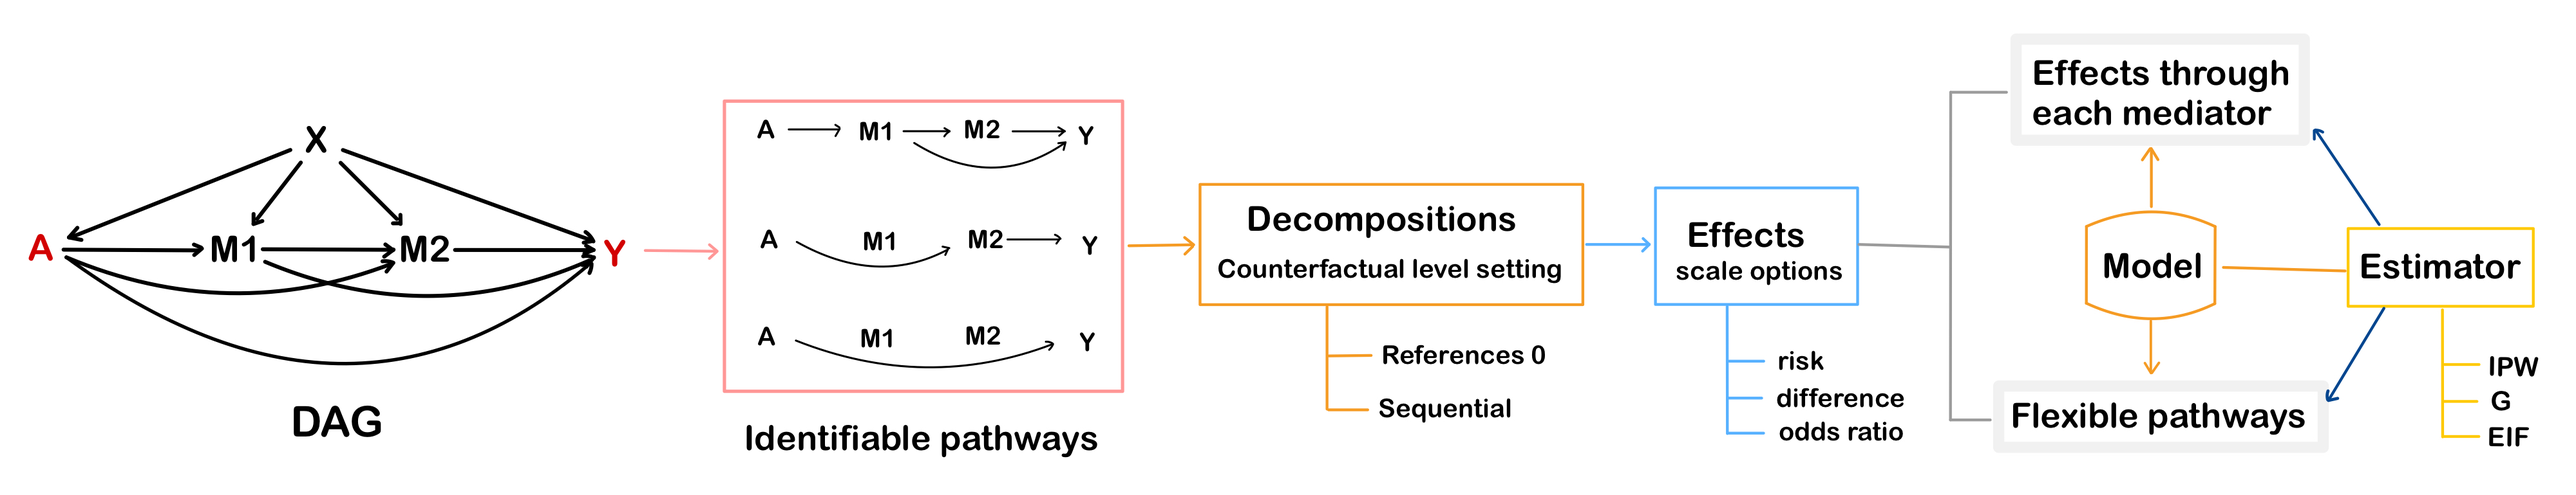
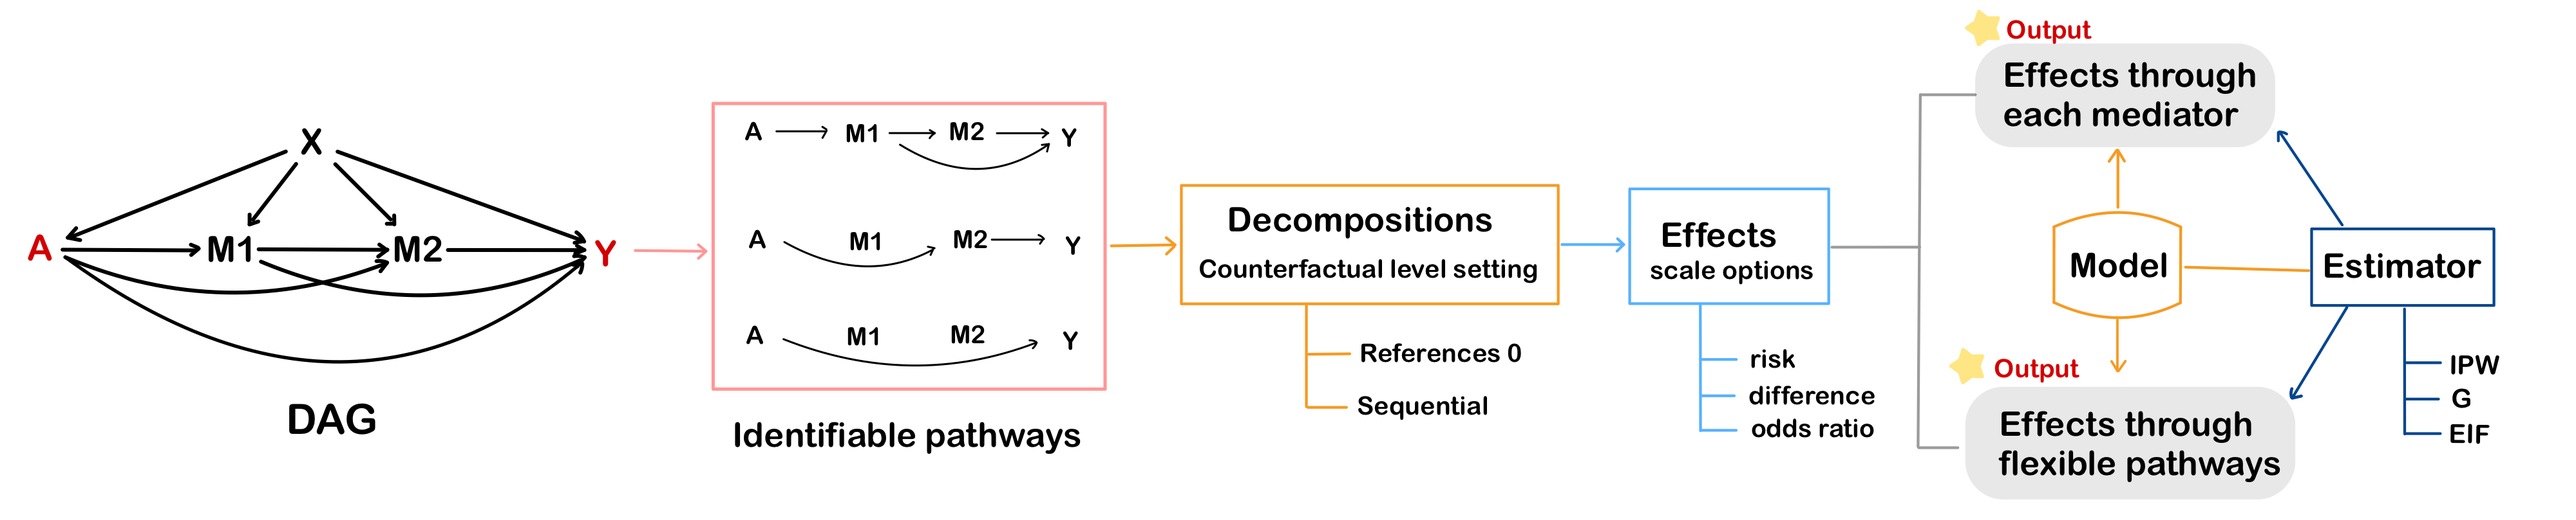
revise readme

diff --git a/README.md b/README.md
@@ -2,7 +2,7 @@ flexPaths: A R Package for Causal Path-Specific Effect Estimation with
 Flexible Settings
 ================
 Xiaxian Ou
-2024-10-08
+2024-11-15
 
 - [0. Installation:](#0-installation)
 - [1. Quick example: Single
@@ -26,7 +26,10 @@ This package is built for estimating the causal **path-specific
 effects** (PSEs) in mediation analysis with
 <span style="color:red">multiple ordered mediators for one binary
 treatment or multiple binary treatments</span>. It provides robust
-estimators based on influence function theory.
+estimators based on influence function theory. This is a schematic
+illustration of the flexPaths workflow:
+
+<img src="pic/flow.jpeg" width="1000" />
 
 Primary advantages of the package include:
 
@@ -58,9 +61,8 @@ Quick instructions are provided below. For more details, see the html.
 
 ``` r
 install.packages("devtools")
-library(devtools)
 
-install_github("xxou/flexPaths")
+devtools::install_github("xxou/flexPaths")
 library(flexPaths)
 ```
 
@@ -149,7 +151,7 @@ EIF_fit <- pathsInfo(data = singTreat, A = "treat", Y = "outcome1", cov_x = c("X
                     M.list = list(M1 = "med1", M2 = c('med2_1', 'med2_2')),
                     estimation = "EIF",
                     model.outcome = ~ SuperLearner(SL.library = c('SL.glm','SL.mean'),family = gaussian()),
-                    model.propensity = list(cov_x = ~ bart(verbose = FALSE, ndpost = 200),
+                    model.treatment = list(cov_x = ~ bart(verbose = FALSE, ndpost = 200),
                                             M1 = ~ glm(family = binomial()),
                                             M2 = ~ SuperLearner(SL.library = c('SL.gam','SL.glm'),family = binomial()))
 )
@@ -178,10 +180,10 @@ results_refer0
 ## Causal Paths Estimates: 
 ## 
 ##                      Path     Effect         SE   CI.lower  CI.upper P.value
-## 1           A->M1->...->Y 0.17059919 0.03320447 0.10551963 0.2356788   0e+00
-## 2           A->M2->...->Y 0.07958858 0.02383352 0.03287573 0.1263014   8e-04
-## 3                    A->Y 0.49851146 0.06616867 0.36882324 0.6281997   0e+00
-## 4 total effect: A->...->Y 0.73216237 0.06856749 0.59777256 0.8665522   0e+00
+## 1           A->M1->...->Y 0.17099386 0.03306295 0.10619166 0.2357961   0e+00
+## 2           A->M2->...->Y 0.08138394 0.02393085 0.03448035 0.1282875   7e-04
+## 3                    A->Y 0.49694286 0.06593332 0.36771592 0.6261698   0e+00
+## 4 total effect: A->...->Y 0.73440229 0.06862682 0.59989620 0.8689084   0e+00
 ```
 
 ``` r
@@ -196,10 +198,10 @@ results_seq
 ## Causal Paths Estimates: 
 ## 
 ##                      Path     Effect         SE   CI.lower  CI.upper P.value
-## 1           A->M1->...->Y 0.15573821 0.03233753 0.09235782 0.2191186   0e+00
-## 2           A->M2->...->Y 0.08354994 0.02165028 0.04111617 0.1259837   1e-04
-## 3                    A->Y 0.49605603 0.06662290 0.36547755 0.6266345   0e+00
-## 4 total effect: A->...->Y 0.73534418 0.06847876 0.60112828 0.8695601   0e+00
+## 1           A->M1->...->Y 0.15997138 0.03228410 0.09669571 0.2232471   0e+00
+## 2           A->M2->...->Y 0.08314747 0.02145742 0.04109169 0.1252032   1e-04
+## 3                    A->Y 0.49526891 0.06585991 0.36618585 0.6243520   0e+00
+## 4 total effect: A->...->Y 0.73838775 0.06827504 0.60457113 0.8722044   0e+00
 ```
 
 ## 1.2 `flexEffect`: PSE for flexible pathway(s)
@@ -239,7 +241,7 @@ flex_results
 ## boot strap results: 
 ## 
 ##       active    Effect    boot.SE boot.CI.lower boot.CI.upper nboot
-## 1 101 vs 000 0.6626455 0.07391435     0.5178311     0.7923982    50
+## 1 101 vs 000 0.6612755 0.07064497     0.5478025     0.7769868    50
 ##   boot.P.value
 ## 1            0
 ```
@@ -276,11 +278,11 @@ flex_results1
 ## boot strap results: 
 ## 
 ##       active     Effect    boot.SE boot.CI.lower boot.CI.upper nboot
-## 1 101 vs 000 0.66264549 0.06741941     0.4994180     0.7774812    50
-## 2 110 vs 100 0.06393016 0.02349809     0.0234325     0.1049898    50
+## 1 101 vs 000 0.66127547 0.06908203    0.54128695     0.8121787    50
+## 2 110 vs 100 0.05762447 0.02391001    0.02062306     0.1129063    50
 ##   boot.P.value
-## 1       0.0000
-## 2       0.0065
+## 1        0.000
+## 2        0.016
 
 
 flex_results2 <- flexEffect(p1 = list(potential_outcome1),
@@ -298,8 +300,8 @@ flex_results2
 ## boot strap results: 
 ## 
 ##       active    Effect    boot.SE boot.CI.lower boot.CI.upper nboot
-## 1 101 vs 100 0.4923198 0.06862475     0.3696984     0.6055540    50
-## 2 101 vs 110 0.4283896 0.06564792     0.3005904     0.5559578    50
+## 1 101 vs 100 0.4869192 0.07010638     0.3761030     0.6059376    50
+## 2 101 vs 110 0.4292947 0.07951660     0.2969336     0.5599513    50
 ##   boot.P.value
 ## 1            0
 ## 2            0
@@ -389,7 +391,7 @@ mfit<- pathsInfo(data = multiTreat,
                    M2 = 'm2'
                  ),
                  estimation = "EIF",
-                 model.propensity =list(~ glm(family = binomial())),
+                 model.treatment =list(~ glm(family = binomial())),
                  model.outcome = list( ~SuperLearner(SL.library = c("SL.mean", "SL.gam"),family = gaussian()))
                  
 )
@@ -418,15 +420,15 @@ flexEffect(p1 = mp1, p0 = mp2, scale = "diff", CI_level = 0.95, nboot =10 , m.co
 ## 
 ## boot strap results: 
 ## 
-##             active    Effect   boot.SE boot.CI.lower boot.CI.upper nboot
-## 1 001;01 vs 000;00 0.7777732 0.2268417     0.4862332      1.138526    10
+##             active   Effect   boot.SE boot.CI.lower boot.CI.upper nboot
+## 1 001;01 vs 000;00 0.780583 0.3533582     0.3930168      1.360147    10
 ##   boot.P.value
-## 1        6e-04
+## 1       0.0272
 ```
 
 # 3. Further instructions for flexible models
 
-For `model.outcome` and `model.propensity` methods, you can input either
+For `model.outcome` and `model.treatment` methods, you can input either
 a single formula or a list of formulas of the models in **single
 treatment analysis** and only one single model in each input for in
 **multiple treatments analysis**. When specifying a model, it is the
@@ -455,7 +457,7 @@ EIF_fit <- pathsInfo(data = singTreat, A = "treat", Y = "outcome1", cov_x = c("X
                     M.list = list(M1 = "med1", M2 = c('med2_1', 'med2_2')),
                     estimation = "EIF",
                     model.outcome = ~ SuperLearner(SL.library = c('SL.randomForest','SL.xgboost'),family = gaussian()),
-                    model.propensity = list(cov_x = ~ bart(verbose = FALSE, ndpost = 200),
+                    model.treatment = list(cov_x = ~ bart(verbose = FALSE, ndpost = 200),
                                             M1 = ~ glm(family = binomial()),
                                             M2 = ~ SuperLearner(SL.library = c('SL.randomForest','SL.xgboost'),family = binomial()))
 )
@@ -475,7 +477,7 @@ EIF_fit <- pathsInfo(data = singTreat, A = "treat", Y = "outcome1", cov_x = c("X
                     model.outcome = list(cov_x = ~ glm(formula = outcome1 ~treat+ X1*X2 ,family = gaussian()),
                                             M1 = ~ glm(formula = outcome1 ~treat+med1+X1*X2, family = gaussian()),
                                             M2 = ~ glm(formula = outcome1 ~treat+med1+med2_1*med2_1+X1*X2, family = gaussian())),
-                    model.propensity = list( ~ bart(verbose = FALSE, ndpost = 200))
+                    model.treatment = list( ~ bart(verbose = FALSE, ndpost = 200))
 )
 ## [34m Input checks passed successfully.
 ```
@@ -494,7 +496,7 @@ EIF_fit <- pathsInfo(data = singTreat, A = "treat", Y = "outcome1", cov_x = c("X
                     M.list = list(M1 = "med1", M2 = c('med2_1', 'med2_2')),
                     estimation = "EIF",
                     model.outcome = list( ~ bart(verbose = FALSE, ndpost = 200)),
-                    model.propensity = list( ~ bart(verbose = FALSE, ndpost = 200)),
+                    model.treatment = list( ~ bart(verbose = FALSE, ndpost = 200)),
                     model.iter = list(cov_x = ~ glm(formula = outcome1 ~treat+X1*X2 ,family = gaussian()),
                                          M1 = ~ glm(formula = outcome1 ~treat+med1+X1*X2, family = gaussian())
                                      )
@@ -520,7 +522,7 @@ mfit<- pathsInfo(data = multiTreat,
                    M2 = 'm2'
                  ),
                  estimation = "EIF",
-                 model.propensity =list(~ glm(formula = Y~ . + I(X^2),family = binomial())),
+                 model.treatment =list(~ glm(formula = Y~ . + I(X^2),family = binomial())),
                  model.outcome = list(~ glm(formula = Y~ . + I(X^0.5),family = gaussian()))
                  
 )
@@ -544,7 +546,7 @@ more models.
 |----|----|----|
 | `stats` | `lm` | No additional arguments required. |
 | `stats` | `glm` | `family`: Specifies the error distribution and link function. |
-| `lme4` | `lmer` | Formula with random intercept: `formula = Y ~ . + ( . \| ID)` (ensure “ID” is included in `cov_x`). |
-| `lme4` | `glmer` | \- Formula with random intercept: `formula = Y ~ . + ( . \| ID)` (ensure “ID” is included in `cov_x`); <br> - `family`: Defines the error distribution. |
 | `dbarts` | `bart` | No additional arguments required. |
 | `SuperLearner` | `SuperLearner` | \- `SL.library`: A list of learner algorithms available in `SuperLearner` (ensure the necessary packages are loaded); <br> - `family`: Defines the outcome type (e.g., binomial, gaussian); <br> - For clustered data, specify `id = 'ID'` (ensure “ID” is included in `cov_x`). |
+| `lme4` | `lmer` | to be added |
+| `lme4` | `glmer` | to be added |
